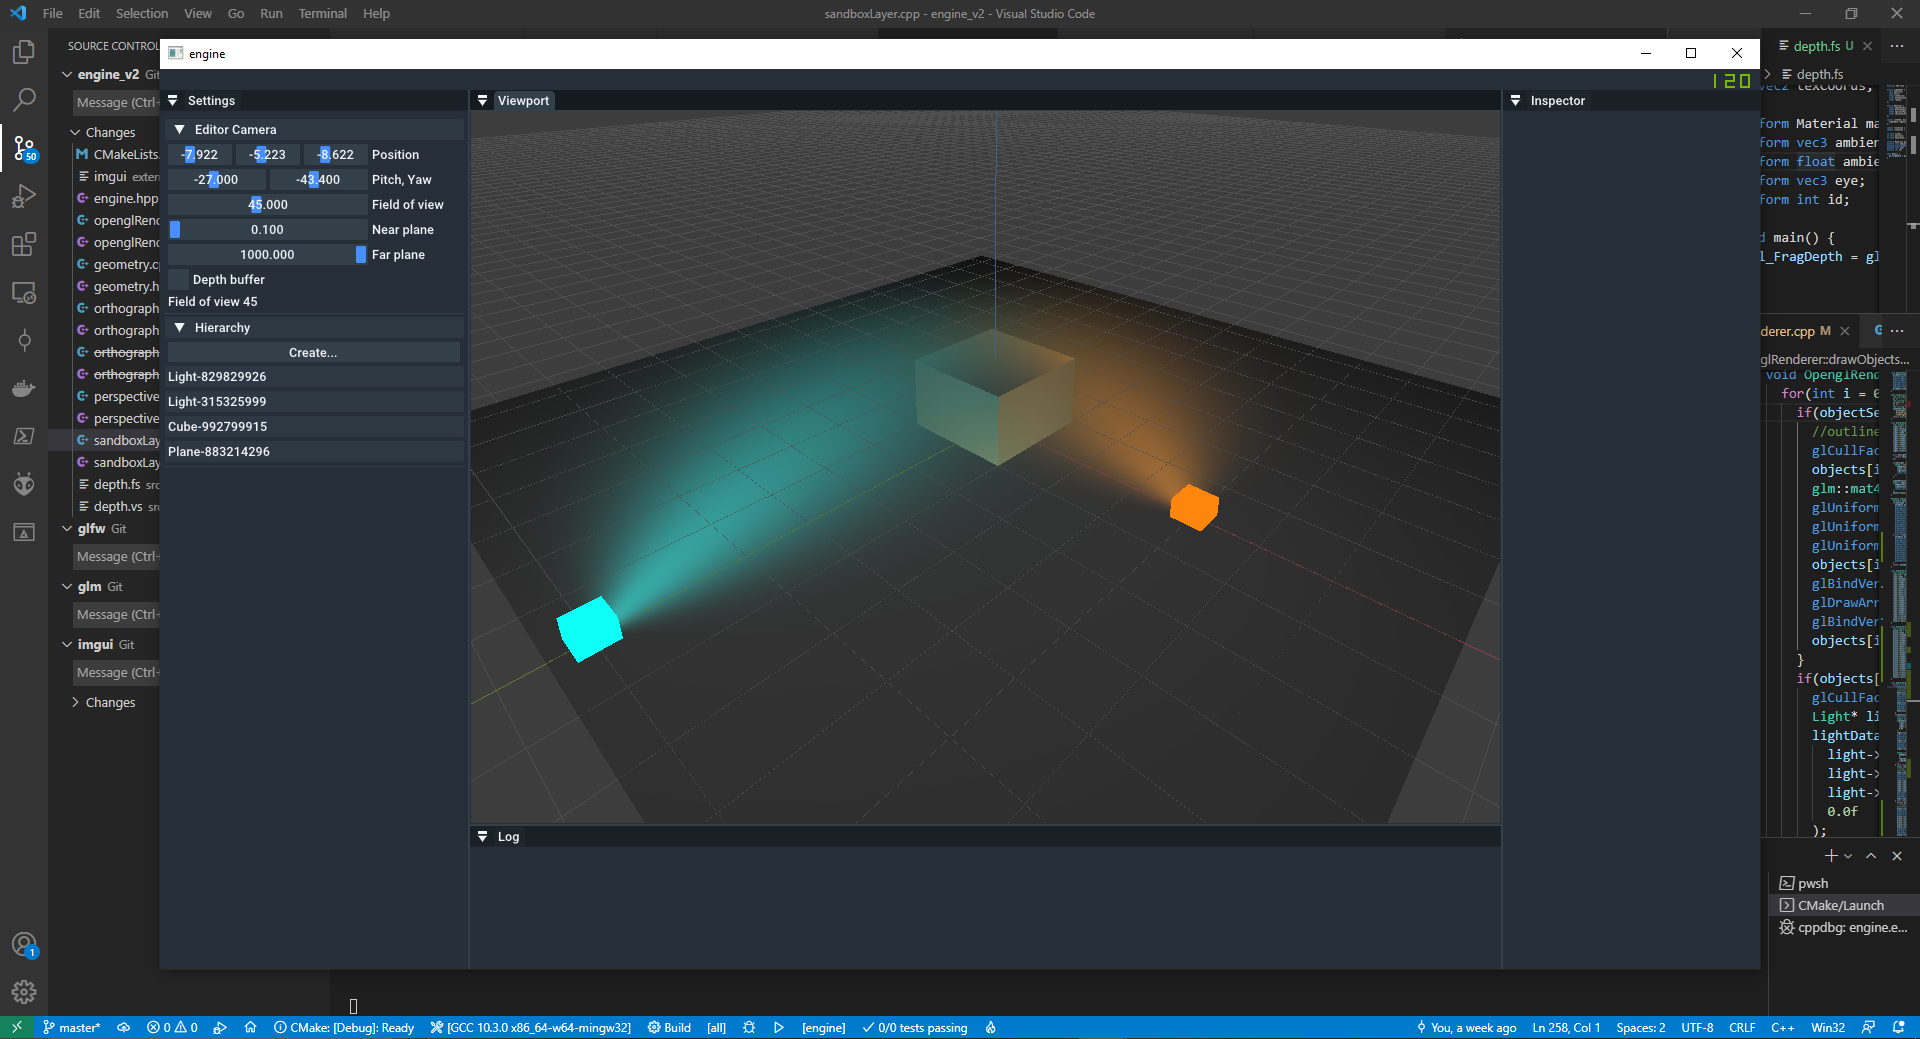
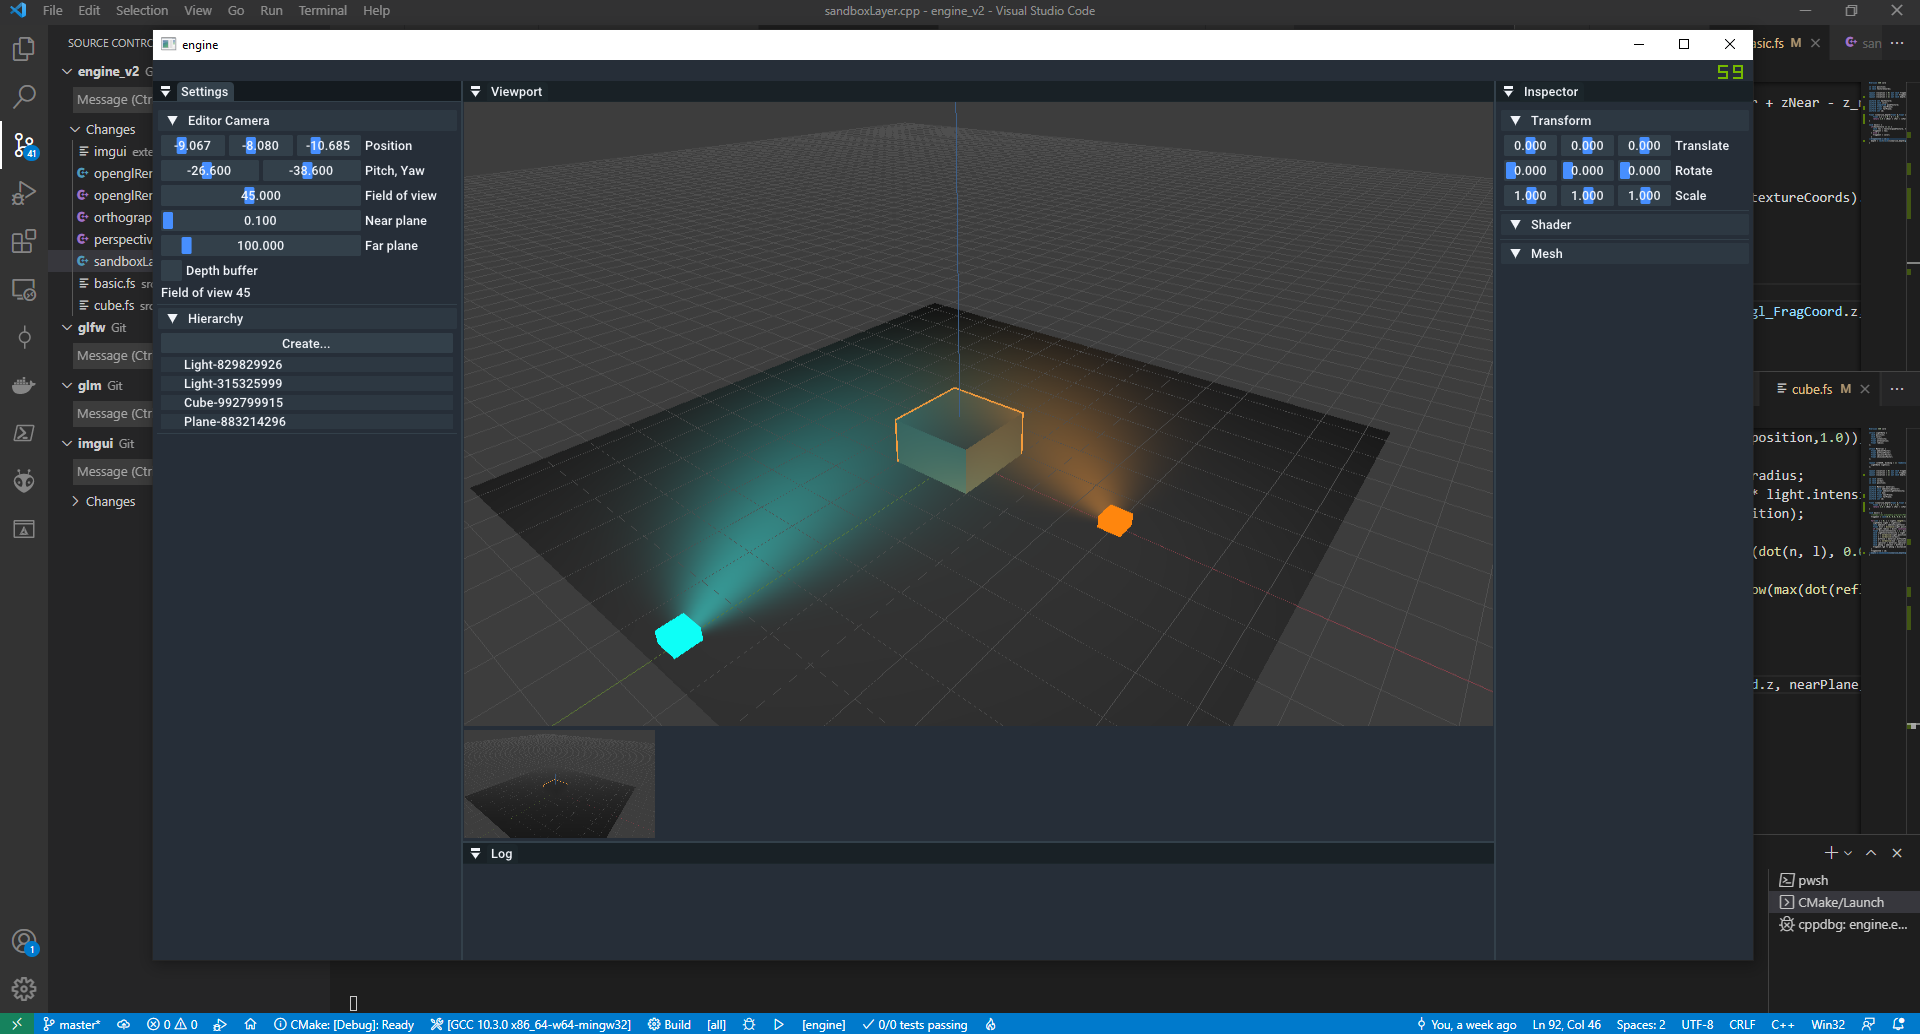
feat: add depth view

diff --git a/src/sandbox/sandboxLayer.cpp b/src/sandbox/sandboxLayer.cpp
@@ -16,7 +16,11 @@
     engine::FrameBufferSpecification spec;
     spec.width = viewportDimensions.x;
     spec.height = viewportDimensions.y;
-    spec.textureFormats = { engine::FrameBufferTextureFormat::RGBA8, engine::FrameBufferTextureFormat::RGBA8 };
+    spec.textureFormats = { 
+      engine::FrameBufferTextureFormat::RGBA8, 
+      engine::FrameBufferTextureFormat::RGBA8,
+      engine::FrameBufferTextureFormat::RGBA8 
+    };
     frameBuffer = std::make_unique<engine::FrameBuffer>(spec);
     openglRenderer = std::make_shared<engine::OpenglRenderer>();
     editorCamera = std::make_shared<engine::PerspectiveCamera>(viewportDimensions.x, viewportDimensions.y);
@@ -44,7 +48,7 @@
     openglRenderer->viewMatrix = editorCamera->view;
     openglRenderer->projectionMatrix = editorCamera->projection;
     openglRenderer->drawAxes(glm::translate(glm::mat4(1.0f), glm::vec3(0.0f, 0.001f, 0.0f)));
-    openglRenderer->drawObjects(editorCamera->position, objectSelectedId);
+    openglRenderer->drawObjects(editorCamera->position, objectSelectedId, editorCamera->nearPlane, editorCamera->farPlane);
     openglRenderer->drawGrid(glm::translate(glm::mat4(1.0f), glm::vec3(-50.0f, 0.0f, -50.0f)));
     setViewportMousePosition();
     setObjectSelectedId();
@@ -76,8 +80,8 @@
 
   //  TODO: clean this up
   void SandboxLayer::createImGuiLayout() {
-    static bool b = true;
-    ImGui::ShowDemoWindow(&b);
+    // static bool b = true;
+    // ImGui::ShowDemoWindow(&b);
     static bool open = true;
     static bool opt_fullscreen = true;
     static bool opt_padding = false;
@@ -237,14 +241,16 @@
     ImGui::PushStyleVar(ImGuiStyleVar_WindowPadding, ImVec2{ 0, 0 });
     ImGui::Begin("Viewport");
     ImVec2 offset = ImGui::GetCursorPos();
-    unsigned int texture = openglRenderer->showDepthBuffer ? frameBuffer->depthAttachmentId : frameBuffer->colorAttachmentIds[0];
+    unsigned int texture = frameBuffer->colorAttachmentIds[0];
+    unsigned int texture2 = frameBuffer->colorAttachmentIds[2];
     ImVec2 contentRegionAvailable = ImGui::GetContentRegionAvail();
     glm::vec2 newViewportDimensions = { contentRegionAvailable.x, contentRegionAvailable.y };
     if(viewportDimensions != newViewportDimensions) {
       frameBuffer->onResize(static_cast<int>(newViewportDimensions.x), static_cast<int>(newViewportDimensions.y));
       viewportDimensions = newViewportDimensions;
     }
-    ImGui::Image(reinterpret_cast<void*>(texture), { viewportDimensions.x, viewportDimensions.y }, { 0, 1 }, { 1, 0 });
+    ImGui::Image(reinterpret_cast<void*>(texture), { viewportDimensions.x, viewportDimensions.y - 115.0f }, { 0, 1 }, { 1, 0 });
+    ImGui::Image(reinterpret_cast<void*>(texture2), { 192.0f, 108.0f }, { 0, 1 }, { 1, 0 });
 
     ImVec2 windowSize = ImGui::GetWindowSize();
     ImVec2 windowPosition = ImGui::GetWindowPos();

diff --git a/src/opengl/openglRenderer.cpp b/src/opengl/openglRenderer.cpp
@@ -318,7 +318,7 @@ namespace engine {
       objects.push_back(std::move(plane));
     }
 
-    void OpenglRenderer::drawObjects(const glm::vec3& eyePosition, int objectSelectedId) {
+    void OpenglRenderer::drawObjects(const glm::vec3& eyePosition, int objectSelectedId, float nearPlane, float farPlane) {
       for(int i = 0; i < objects.size(); i++) {
         if(objectSelectedId == objects[i]->id) {
           //outline pass
@@ -348,6 +348,8 @@ namespace engine {
     	    glUniformMatrix4fv(glGetUniformLocation(light->shaders["basic"]->program, "viewMatrix"), 1, GL_FALSE, glm::value_ptr(viewMatrix));
     	    glUniformMatrix4fv(glGetUniformLocation(light->shaders["basic"]->program, "projectionMatrix"), 1, GL_FALSE, glm::value_ptr(projectionMatrix));
           light->shaders["basic"]->setUniform4fv(lightDataContainer[light->lightDataContainerIndex].color, "color");
+          light->shaders["basic"]->setUniform1f(nearPlane, "nearPlane");
+          light->shaders["basic"]->setUniform1f(farPlane, "farPlane");
           glBindVertexArray(light->meshData.vaoId);
           glDrawArrays(GL_TRIANGLES, 0, 36);
           glBindVertexArray(0);
@@ -372,6 +374,9 @@ namespace engine {
           cube->shaders["cube"]->setUniform1f(cube->material.diffuseFactor, "material.diffuseFactor");
           cube->shaders["cube"]->setUniform1f(cube->material.specularFactor, "material.specularFactor");
           cube->shaders["cube"]->setUniform1f(cube->material.shininessFactor, "material.shininessFactor");
+          cube->shaders["cube"]->setUniform1f(nearPlane, "nearPlane");
+          cube->shaders["cube"]->setUniform1f(farPlane, "farPlane");
+          cube->shaders["cube"]->setUniform1f(cube->material.shininessFactor, "far");
           cube->shaders["cube"]->setUniform3fv(eyePosition, "eye");
           glBindVertexArray(cube->meshData.vaoId);
           glDrawArrays(GL_TRIANGLES, 0, 36);
@@ -390,6 +395,8 @@ namespace engine {
           plane->shaders["cube"]->setUniform1f(plane->material.diffuseFactor, "material.diffuseFactor");
           plane->shaders["cube"]->setUniform1f(plane->material.specularFactor, "material.specularFactor");
           plane->shaders["cube"]->setUniform1f(plane->material.shininessFactor, "material.shininessFactor");
+          plane->shaders["cube"]->setUniform1f(nearPlane, "nearPlane");
+          plane->shaders["cube"]->setUniform1f(farPlane, "farPlane");
           plane->shaders["cube"]->setUniform3fv(eyePosition, "eye");
           glBindVertexArray(plane->meshData.vaoId);
           glDrawArrays(GL_TRIANGLES, 0, 6);

diff --git a/src/renderer/perspectiveCamera.hpp b/src/renderer/perspectiveCamera.hpp
@@ -20,7 +20,7 @@ namespace engine {
     float sensitivity = 0.2f;
     float zoomSpeed = 5.0f;
     float nearPlane = 0.1f;
-    float farPlane = 1000.0f;
+    float farPlane = 100.0f;
     bool locked = false;
     glm::vec3 position = { -5.0f, -4.0f, -7.0f };
     glm::vec3 x = { 1.0f, 0.0f, 0.0f };
@@ -29,7 +29,7 @@ namespace engine {
     glm::mat4 view;
     glm::mat4 projection;
 
-    PerspectiveCamera(float windowWidth = 800.0f, float windowHeight = 600.0f, float speed = 5.0f, float fov = 45.0f, float sensitivity = 0.2f, float zoomSpeed = 5.0f, float nearPlane = 0.1f, float farPlane = 1000.0f);
+    PerspectiveCamera(float windowWidth = 800.0f, float windowHeight = 600.0f, float speed = 5.0f, float fov = 45.0f, float sensitivity = 0.2f, float zoomSpeed = 5.0f, float nearPlane = 0.1f, float farPlane = 100.0f);
     void handleKeyPress(DeltaTime deltaTime);
     void updateView(DeltaTime deltaTime, const glm::vec2& mousePosition, bool hasMouseEnterWindow);
     void scroll(const MouseScrolledEvent& mouseScrolledEvent);

diff --git a/src/renderer/orthographicCamera.hpp b/src/renderer/orthographicCamera.hpp
@@ -19,7 +19,7 @@ namespace engine {
     float fov = 45.0f;
     float sensitivity = 0.2f;
     float nearPlane = 0.1f;
-    float farPlane = 1000.0f;
+    float farPlane = 100.0f;
     bool locked = false;
     // glm::vec3 position = { -50.0f, -40.0f, -70.0f };
     glm::vec3 position = { -5.0f, -4.0f, -7.0f };
@@ -29,7 +29,7 @@ namespace engine {
     glm::mat4 view;
     glm::mat4 projection;
 
-    OrthographicCamera(float windowWidth = 800.0f, float windowHeight = 600.0f, float translateSpeed = 5.0f, float zoomSpeed = 5.0f, float nearPlane = 0.1f, float farPlane = 1000.0f);
+    OrthographicCamera(float windowWidth = 800.0f, float windowHeight = 600.0f, float translateSpeed = 5.0f, float zoomSpeed = 5.0f, float nearPlane = 0.1f, float farPlane = 100.0f);
     void handleKeyPress(DeltaTime deltaTime);
     void updateView(DeltaTime deltaTime, const glm::vec2& mousePosition, bool hasMouseEnterWindow);
     void scroll(const MouseScrolledEvent& mouseScrolledEvent);

diff --git a/src/opengl/openglRenderer.hpp b/src/opengl/openglRenderer.hpp
@@ -131,7 +131,7 @@ namespace engine {
     void setAxesData();
     void setGridData(float x = 10.0f, float z = 10.0f);
     void drawAxes(const glm::mat4& modelMatrix);
-    void drawObjects(const glm::vec3& eyePosition, int objectSelectedId);
+    void drawObjects(const glm::vec3& eyePosition, int objectSelectedId, float nearPlane, float farPlane);
     void drawGrid(const glm::mat4& modelMatrix);
     void createCube(const glm::mat4& modelMatrix = glm::mat4(1.0f));
     void createPlane(const glm::mat4& modelMatrix = glm::mat4(1.0f));
